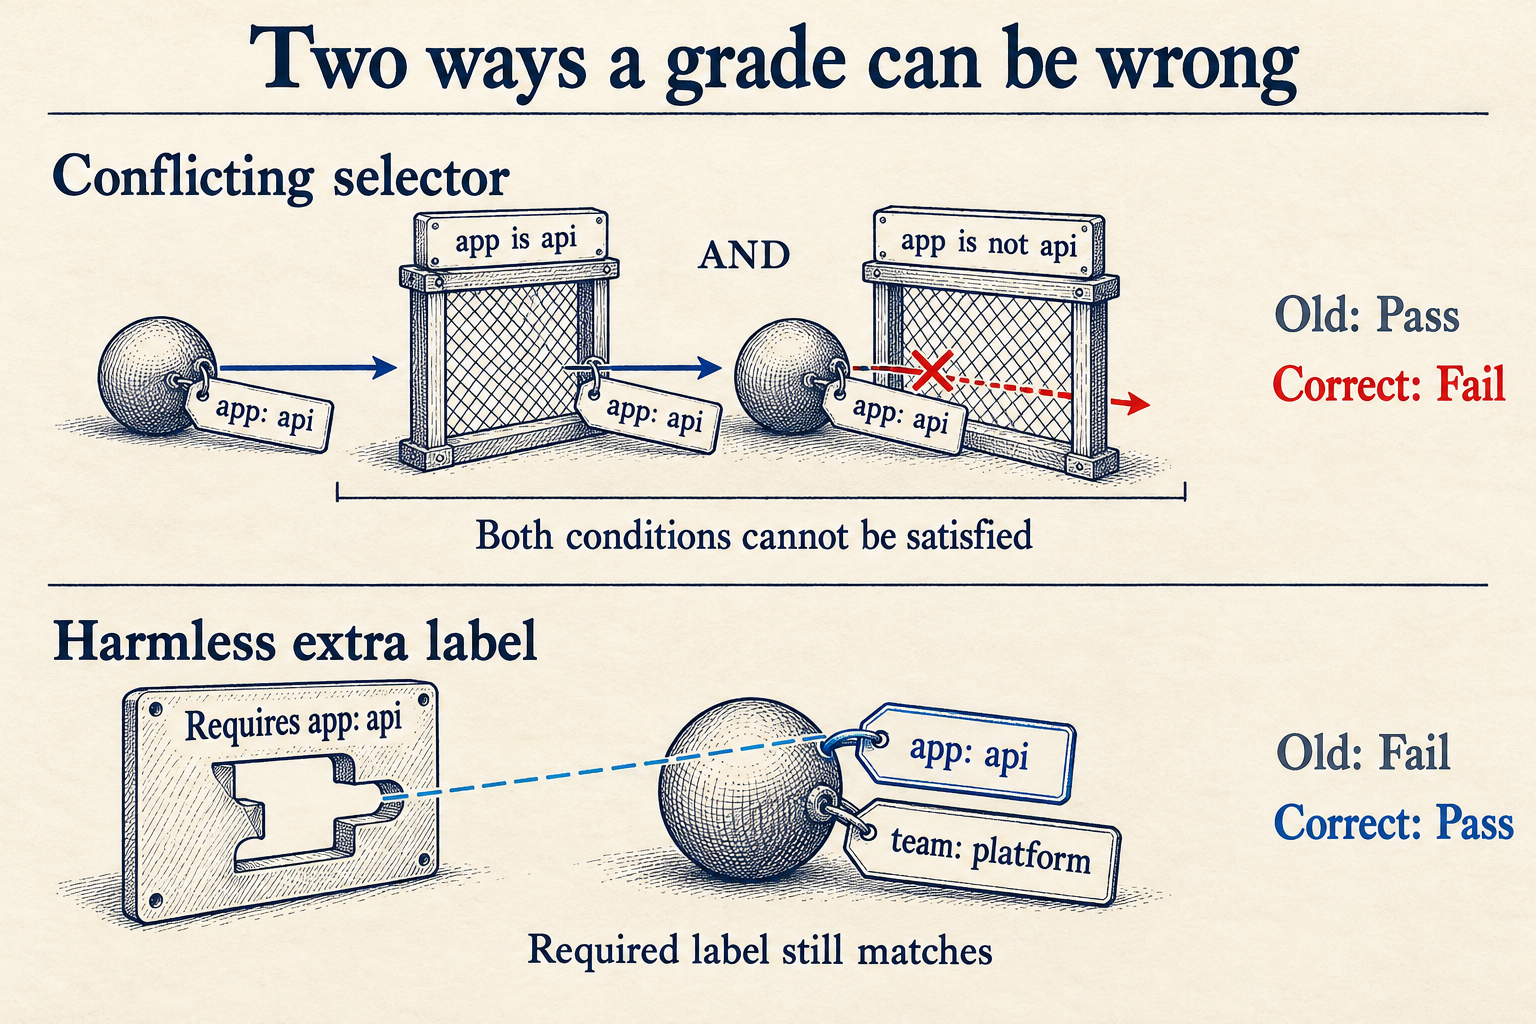
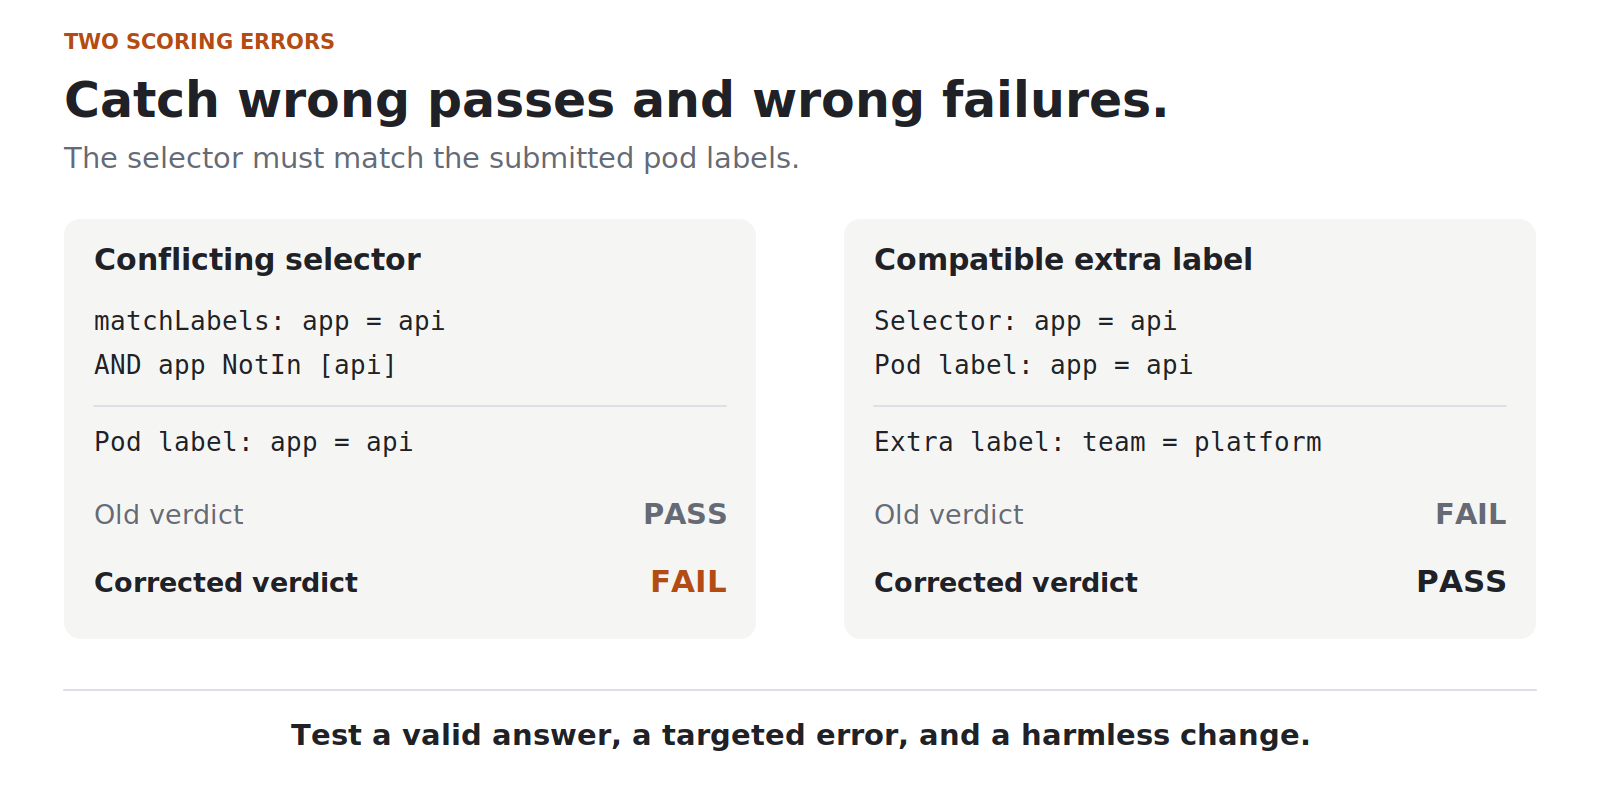
Refresh evaluator article cover and diagrams

diff --git a/docs/evaluator-case-study.md b/docs/evaluator-case-study.md
@@ -1,0 +1,206 @@
+# Before scoring a model, test the evaluator
+
+One version of my evaluator passed a Kubernetes configuration whose selector contradicted its own pod labels. It also rejected a configuration just because an extra label had been added.
+
+**Both results were scoring errors.**
+
+If you are new to evals, start with [What exactly are AI evals?](https://dev.to/deavgprime/what-exactly-are-ai-evals-775). It explains the tasks, graders, and metrics used in this case study.
+
+These came up while working on [IaC Eval Bench](https://github.com/deavgprime/iac-eval-bench), a small project for evaluating model-generated Kubernetes configurations. A scoring review found five mistakes in the evaluator, even though its original reference and negative-control examples were producing the expected totals.
+
+That last part is worth explaining. A passing test suite tells us that the cases we wrote behave as expected. We still have to ask whether we chose enough useful cases.
+
+**On this page**
+
+- [How the evaluator works](#how-the-evaluator-works)
+- [A passing and a failing answer](#start-with-a-passing-and-a-failing-answer)
+- [Two mistakes the controls missed](#two-mistakes-the-original-controls-missed)
+- [All five scoring fixes](#all-five-scoring-fixes)
+- [Run the checks](#run-the-checks-yourself)
+- [Limits and next checks](#limits-and-next-checks)
+
+## How the evaluator works
+
+The benchmark has six tasks. They ask for configurations such as a Deployment with resource limits, a Service that selects the right pods, or a scheduled job with execution limits.
+
+For each answer, the evaluator checks:
+
+1. **The response format.** Can it read the expected JSON structure?
+2. **The Kubernetes schema.** Do the fields and their types match the bundled schema?
+3. **The requested resources.** Are the right resource types, names, and namespaces present?
+4. **The task requirements.** Do the labels, ports, limits, and other settings satisfy the prompt?
+
+A schema is a description of the allowed structure. For example, it can tell us that a replica count should be a number. That does not mean it checks every relationship between the fields.
+
+The evaluator saves the answer and the outcome of its checks so a result can be inspected later.
+
+![Four inspection stages check format, schema, required resources, and task requirements. The evaluator saves its evidence without deploying a workload.](images/evaluator-case-study/evaluator-inspection.png)
+
+*Figure 1. The evaluator checks configuration data without deploying it. Task requirements are available when it scores the answer.*
+
+## Start with a passing and a failing answer
+
+Take a Service, which directs traffic to a set of pods. Kubernetes uses labels to decide which pods the Service selects.
+
+Here is the relevant part of a matching example. These are excerpts, not complete manifests:
+
+```yaml
+# Pod labels in the Deployment template
+labels:
+  app: api
+
+# Service selector
+selector:
+  app: api
+```
+
+The Service asks for pods with `app: api`, and the pod template has that label.
+
+Now change only the Service selector:
+
+```yaml
+selector:
+  app: unrelated
+```
+
+Both versions have the same field structure. The second selector does not match the intended pods. The evaluator needs to check that relationship.
+
+This is a useful negative control: a constructed answer with a mistake we expect the evaluator to catch. The unchanged answer is the positive control.
+
+The project has one reference answer and one targeted negative example for each task:
+
+| Constructed examples | Full task passes | Schema and resource checks passed |
+| --- | --- | --- |
+| Six reference answers | 6/6 | 6/6 |
+| Six answers with a targeted mistake | 0/6 | 6/6 |
+
+Those are the expected results. All six negative examples still get through the schema and resource checks. Each fails its intended task requirement.
+
+> **Reading these results:** These are constructed examples for testing the evaluator. No model produced them, so the pass counts do not measure model ability.
+
+## Two mistakes the original controls missed
+
+### A broken selector passed
+
+The original examples all behaved as expected. Then the review tried changes beyond those six negative controls.
+
+One change added this condition to a Deployment selector:
+
+```yaml
+selector:
+  matchLabels:
+    app: api
+  matchExpressions:
+    - key: app
+      operator: NotIn
+      values: [api]
+```
+
+Read the two conditions together:
+
+- The first requires `app` to equal `api`.
+- The second requires `app` not to equal `api`.
+
+They cannot both be satisfied. The selector also contradicts the Deployment's own pod template, which has `app: api`.
+
+The old evaluator passed this configuration because it checked `matchLabels` and ignored `matchExpressions`.
+
+The fix checks every declared selector condition against the submitted pod labels. This follows Kubernetes' rule that the conditions in a label selector must all be satisfied. [Kubernetes selector documentation](https://kubernetes.io/docs/concepts/overview/working-with-objects/labels/#label-selectors)
+
+### A harmless label failed
+
+Here is the other side of the problem:
+
+```yaml
+labels:
+  app: api
+  team: platform
+```
+
+The required `app: api` label is still present. A selector asking for `app: api` still matches these labels.
+
+The old label check compared the whole label map with the reference map. The extra `team` entry caused a failure.
+
+That check was too strict. It now checks for the required label while allowing compatible additions. The task wording also makes those allowed additions explicit, so the prompt and the scoring rule agree.
+
+This matters for model evaluation. If the evaluator rejects an acceptable answer, the model gets blamed for a scoring mistake. If the evaluator accepts a broken answer, the score looks better than it should.
+
+![A conflicting selector requires app to equal api and not equal api at once. A separate example adds a compatible team label while preserving the required app label. The old and corrected verdicts are shown for each.](images/evaluator-case-study/selector-verdicts.png)
+
+*Figure 2. The conflicting selector must fail; the compatible extra label must still pass. Both cases need regression coverage.*
+
+## All five scoring fixes
+
+The review recorded five scoring mistakes:
+
+| Change to the reference answer | Old | Corrected |
+| --- | --- | --- |
+| Conflicting Deployment selector | Pass | **Fail** |
+| Compatible extra pod label | Fail | **Pass** |
+| Matching PodDisruptionBudget condition | Fail | **Pass** |
+| Two readiness probe handlers | Pass | **Fail** |
+| UDP workload port with TCP Service | Pass | **Fail** |
+
+A PodDisruptionBudget describes how many pods should remain available during voluntary disruptions. Like the Deployment, it uses a selector to identify the relevant pods.
+
+The [scoring audit](https://github.com/deavgprime/iac-eval-bench/blob/1dbabecd8cc377cef1082b2652131b6921c4c74b/docs/scoring-audit.md) explains the individual fixes and links the saved before-and-after observations.
+
+The original controls were useful. They caught the mistakes they were designed to catch. But neither their old nor their corrected totals exposed these five scoring errors. Both versions reported six reference passes and zero negative-control passes.
+
+The individual cases mattered more than those totals.
+
+## Run the checks yourself
+
+The examples can run locally without a model endpoint or Kubernetes cluster. With Python 3.11 to 3.13 installed:
+
+**1. Get the version used in this article.**
+
+```bash
+git clone https://github.com/deavgprime/iac-eval-bench.git
+cd iac-eval-bench
+git switch --detach 1dbabecd8cc377cef1082b2652131b6921c4c74b
+```
+
+**2. Prepare the Python environment.**
+
+```bash
+python3 -m venv .venv
+source .venv/bin/activate
+python -m pip install -r requirements.lock
+python -m pip install --no-deps -e .
+```
+
+**3. Run the tests and constructed examples.**
+
+```bash
+python -m unittest discover -s tests -v
+python scripts/verify_baselines.py --output runs/article-check
+```
+
+The revision is pinned so the code stays the same when someone repeats the example. Use a fresh output directory if you run the baseline check again.
+
+This revision has 51 test methods, including multiple cases within some tests. The baseline check should finish with:
+
+```text
+Verified: 6 reference passes; all 6 targeted semantic mutations detected.
+```
+
+The output folders retain the inputs, individual check results, and reports. Open `runs/article-check/reference/report.html` or `runs/article-check/mutated/report.html` locally to inspect them.
+
+## Limits and next checks
+
+These checks examine configuration data. They do not submit it to a Kubernetes API server, start a workload, or verify that an application serves traffic.
+
+For example, a matching Service selector does not prove that the application is listening on the requested port. That needs a different kind of test.
+
+The suite is also small: six public, synthetic tasks. Its controls and regression tests cover specific requirements and failure cases. They are not evidence that every valid configuration will pass or every invalid one will fail.
+
+For my next evaluator change, I want to answer three questions before looking at a model score:
+
+1. What answer should pass?
+2. What specific mistake should fail?
+3. What harmless change should still pass?
+
+For this project, the third question caught a problem that the original pass/fail examples had missed.
+
+Next in the series: [Resuming an eval without changing the experiment](https://dev.to/deavgprime/resuming-an-eval-without-changing-the-experiment-c8d). I test what happens when a run stops, which attempts are reused, and when resuming should be rejected.
